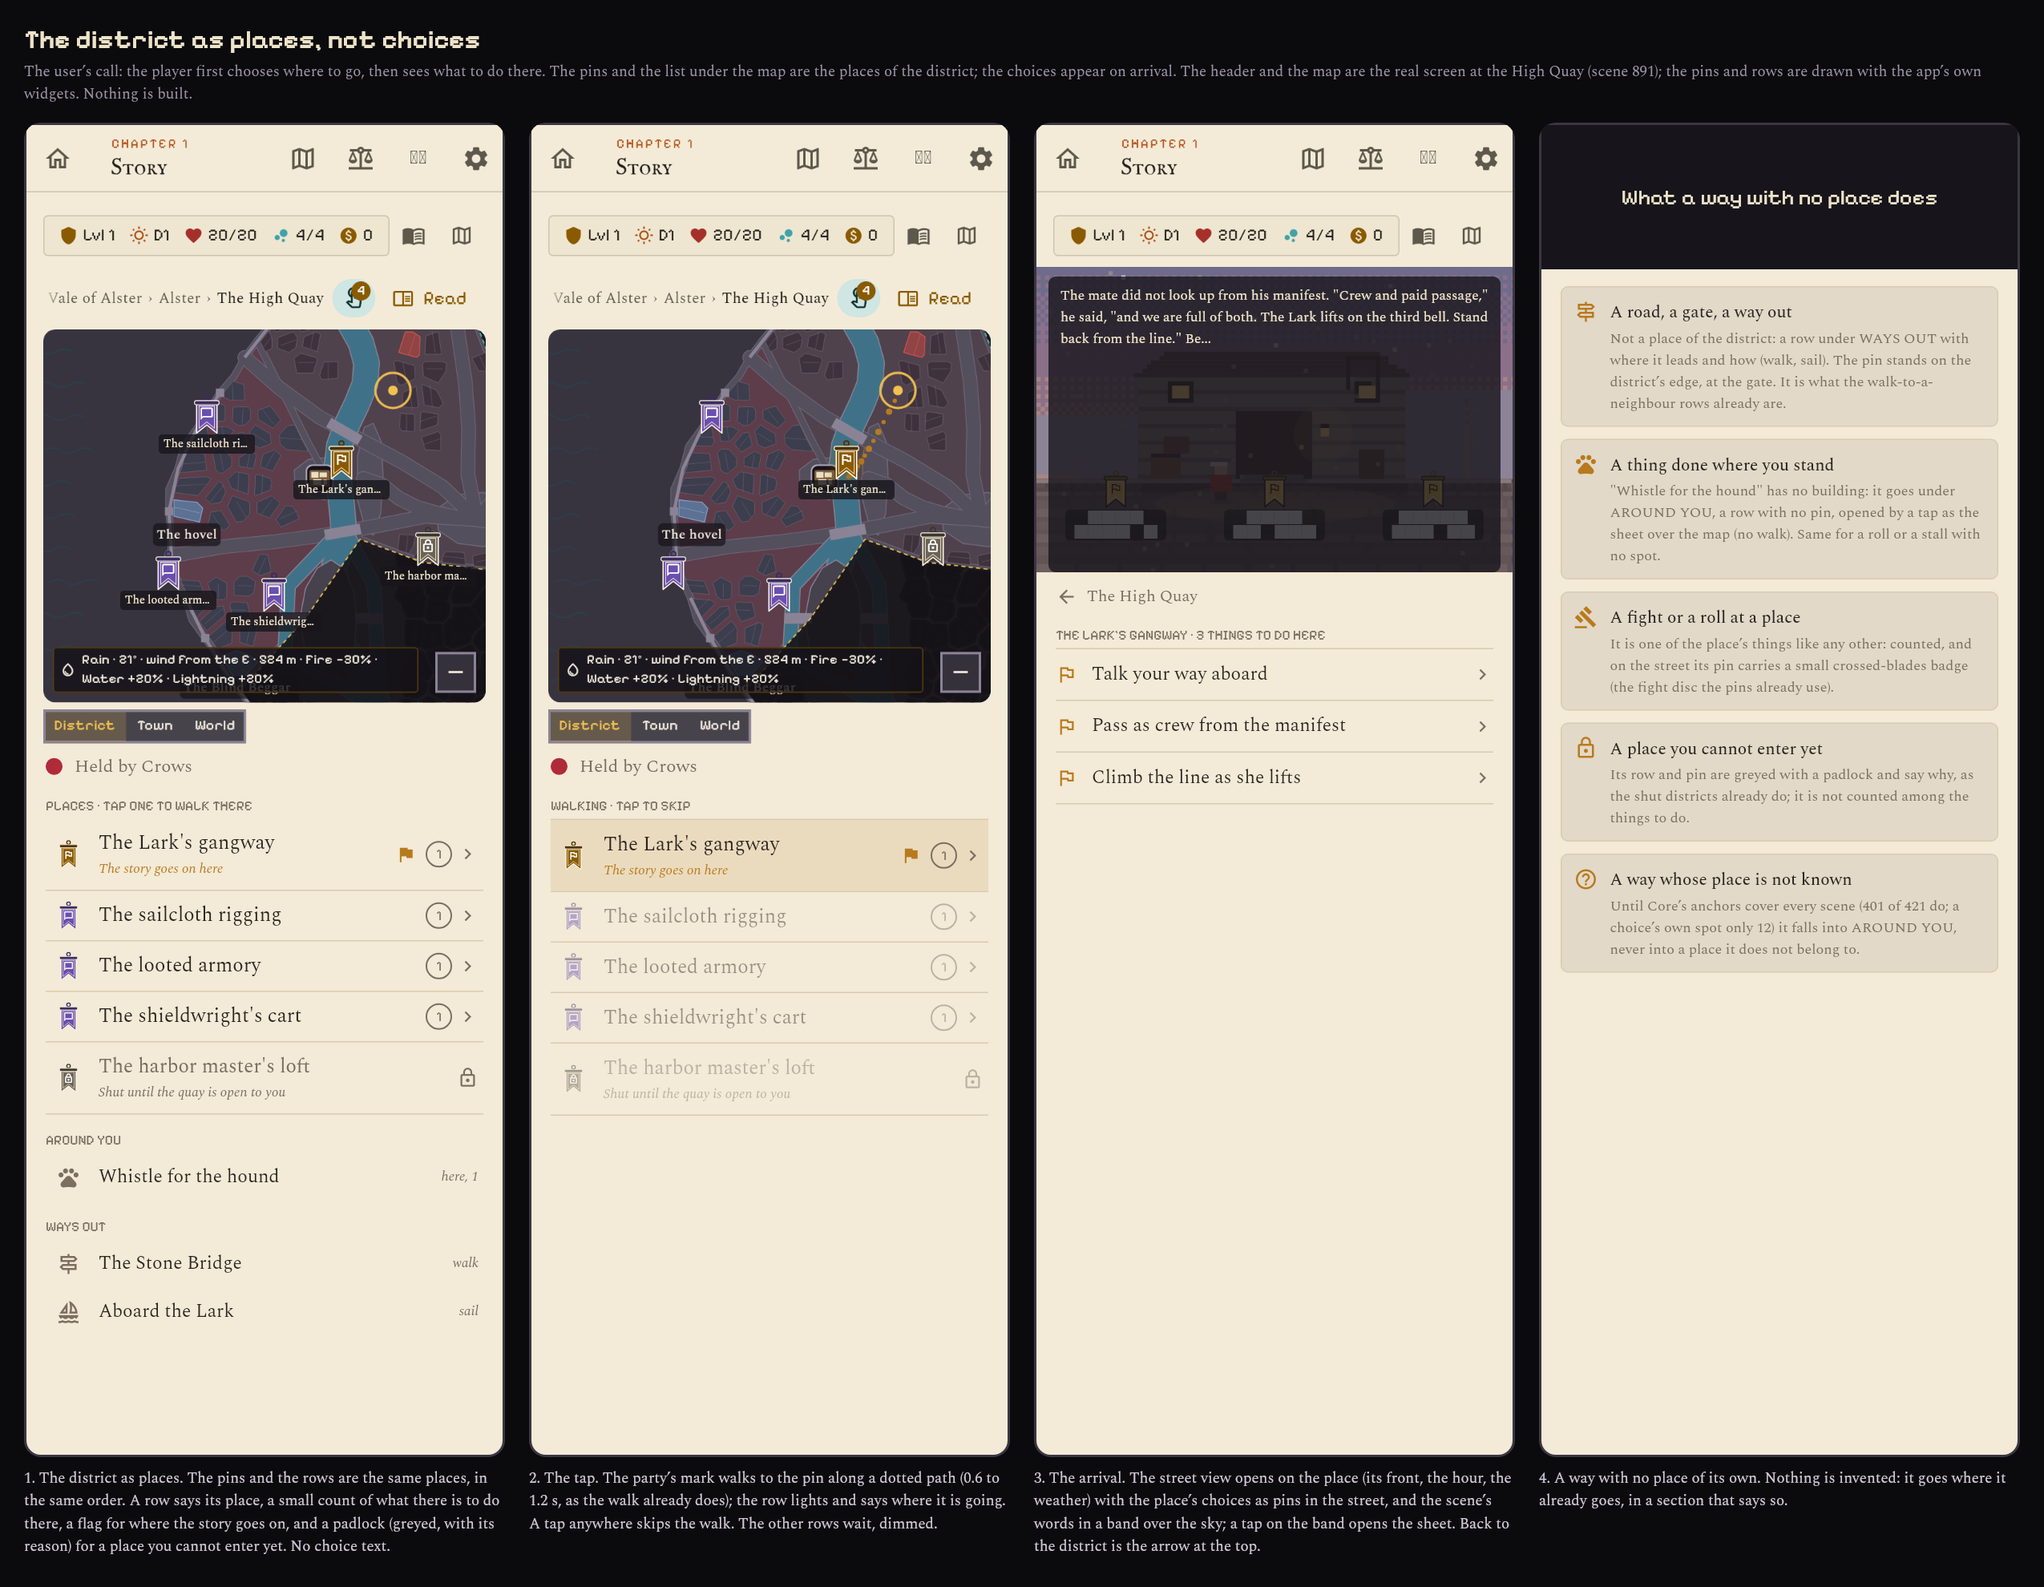
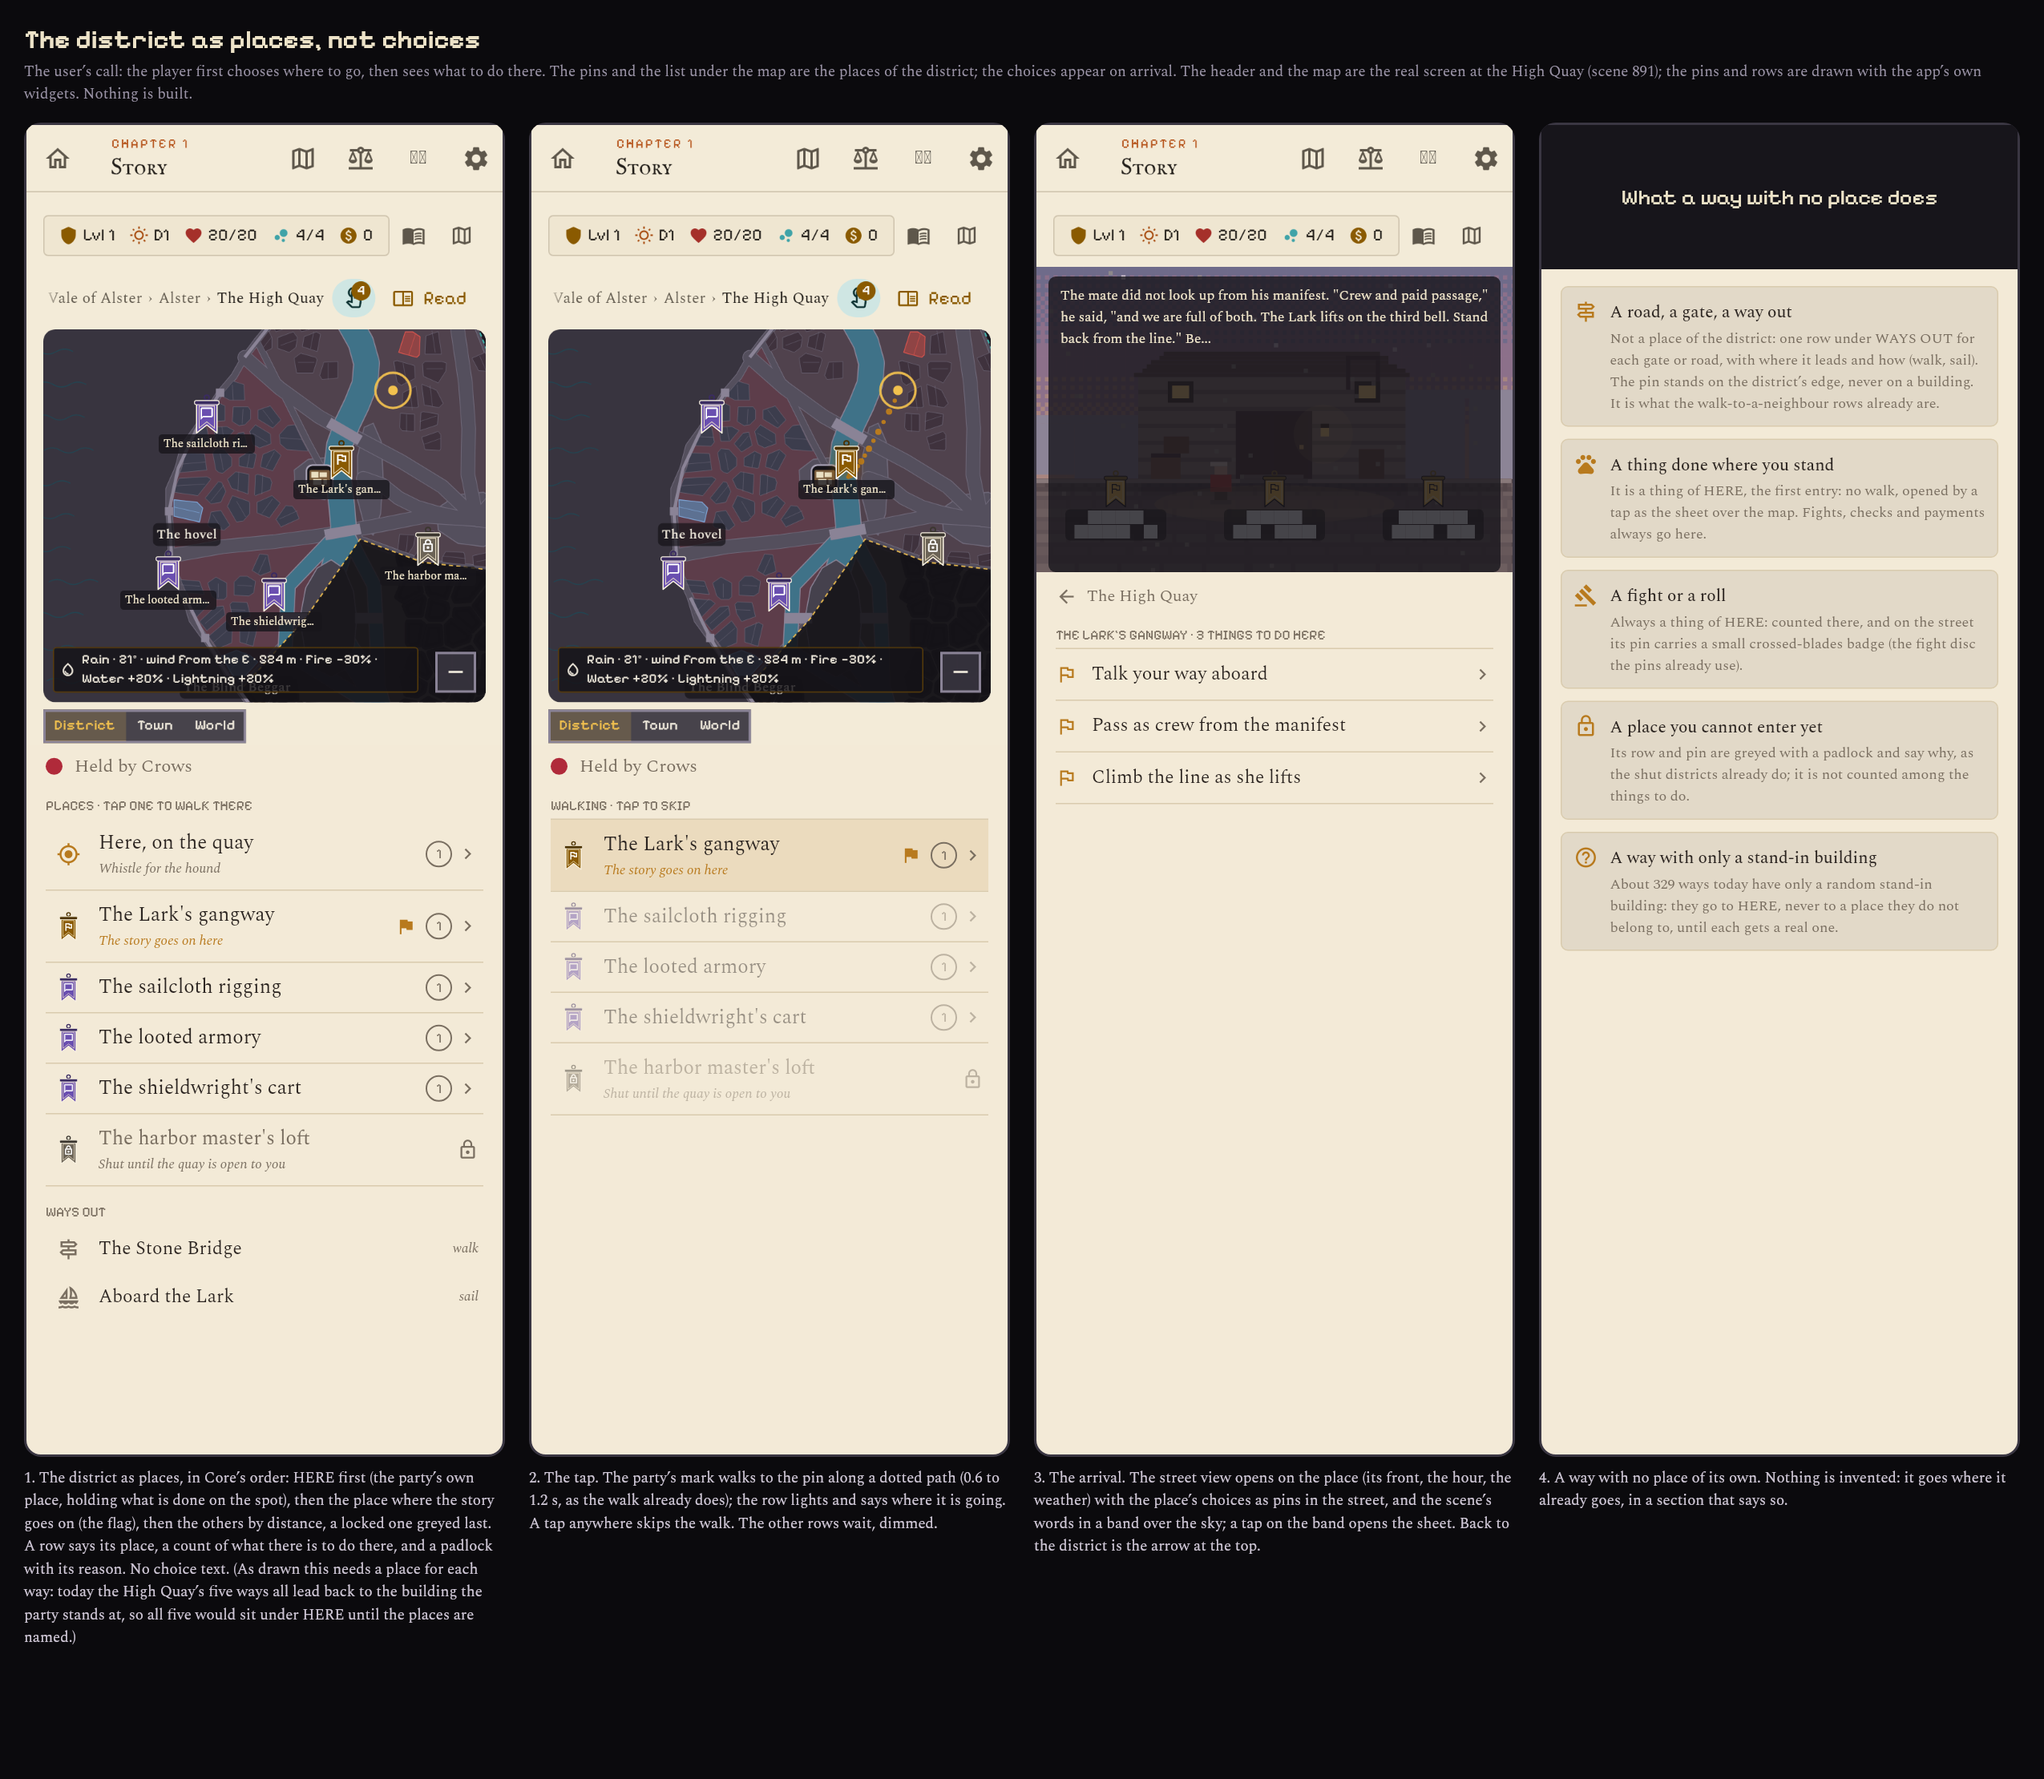
Places mock: Core's rules (HERE first, main marked, hashed ways to HERE)
Claude-Session: https://claude.ai/code/session_01Y8cU3zPWWudNpnZGCrkKEc

Changed region(s): [[0.0, 0.0, 0.9914, 0.7394], [0.0, 0.7702, 0.9914, 0.9859], [0.1859, 0.5237, 0.2169, 0.5854]]

diff --git a/test/ux_places_mock_test.dart b/test/ux_places_mock_test.dart
@@ -218,6 +218,28 @@ Widget _placeRow(_Place p, {bool dim = false, bool hot = false}) {
   );
 }
 
+/// "Here": the party's own place, always the first entry; the on-the-spot
+/// choices (a fight, a check, a payment, a way with no place) are its things.
+Widget _hereRow(int things, String where) => Padding(
+      padding: const EdgeInsets.symmetric(horizontal: 4, vertical: 8),
+      child: Row(children: [
+        const SizedBox(
+            width: 30, child: Icon(Icons.my_location, size: 20, color: _gold)),
+        const SizedBox(width: 10),
+        Expanded(
+          child:
+              Column(crossAxisAlignment: CrossAxisAlignment.start, children: [
+            Text('Here, on $where', style: _serif(16.5)),
+            Text('Whistle for the hound',
+                style: _serif(11.5, color: _inkSoft, style: FontStyle.italic)),
+          ]),
+        ),
+        _count(things),
+        const SizedBox(width: 4),
+        const Icon(Icons.chevron_right, size: 18, color: _inkSoft),
+      ]),
+    );
+
 Widget _section(String s) => Padding(
     padding: const EdgeInsets.only(top: 14, bottom: 4),
     child: Text(s, style: _px(11.5, color: _inkSoft)));
@@ -397,18 +419,18 @@ void main() {
 
     final phone1 = _phone(
       caption:
-          '1. The district as places. The pins and the rows are the same places, in the same order. A row says its place, a small count of what there is to do there, a flag for where the story goes on, and a padlock (greyed, with its reason) for a place you cannot enter yet. No choice text.',
+          '1. The district as places, in Core\u2019s order: HERE first (the party\u2019s own place, holding what is done on the spot), then the place where the story goes on (the flag), then the others by distance, a locked one greyed last. A row says its place, a count of what there is to do there, and a padlock with its reason. No choice text. (As drawn this needs a place for each way: today the High Quay\u2019s five ways all lead back to the building the party stands at, so all five would sit under HERE until the places are named.)',
       top: top(over: [
         for (final w in mapPins) w,
       ]),
       children: [
         ...list.take(3),
+        _hereRow(1, 'the quay'),
+        const Divider(height: 1, color: _line),
         for (final p in _places) ...[
           _placeRow(p),
           const Divider(height: 1, color: _line),
         ],
-        _section('AROUND YOU'),
-        _plainRow(Icons.pets_outlined, 'Whistle for the hound', 'here, 1'),
         _section('WAYS OUT'),
         _plainRow(Icons.signpost_outlined, 'The Stone Bridge', 'walk'),
         _plainRow(Icons.sailing_outlined, 'Aboard the Lark', 'sail'),
@@ -576,21 +598,21 @@ void main() {
       children: [
         const SizedBox(height: 14),
         kindCard(Icons.signpost_outlined, 'A road, a gate, a way out',
-            'Not a place of the district: a row under WAYS OUT with where it leads and how (walk, sail). The pin stands on the district’s edge, at the gate. It is what the walk-to-a-neighbour rows already are.'),
+            'Not a place of the district: one row under WAYS OUT for each gate or road, with where it leads and how (walk, sail). The pin stands on the district’s edge, never on a building. It is what the walk-to-a-neighbour rows already are.'),
         kindCard(Icons.pets_outlined, 'A thing done where you stand',
-            '"Whistle for the hound" has no building: it goes under AROUND YOU, a row with no pin, opened by a tap as the sheet over the map (no walk). Same for a roll or a stall with no spot.'),
-        kindCard(Icons.gavel_outlined, 'A fight or a roll at a place',
-            'It is one of the place’s things like any other: counted, and on the street its pin carries a small crossed-blades badge (the fight disc the pins already use).'),
+            'It is a thing of HERE, the first entry: no walk, opened by a tap as the sheet over the map. Fights, checks and payments always go here.'),
+        kindCard(Icons.gavel_outlined, 'A fight or a roll',
+            'Always a thing of HERE: counted there, and on the street its pin carries a small crossed-blades badge (the fight disc the pins already use).'),
         kindCard(Icons.lock_outline, 'A place you cannot enter yet',
             'Its row and pin are greyed with a padlock and say why, as the shut districts already do; it is not counted among the things to do.'),
-        kindCard(Icons.help_outline, 'A way whose place is not known',
-            'Until Core’s anchors cover every scene (401 of 421 do; a choice’s own spot only 12) it falls into AROUND YOU, never into a place it does not belong to.'),
+        kindCard(Icons.help_outline, 'A way with only a stand-in building',
+            'About 329 ways today have only a random stand-in building: they go to HERE, never to a place they do not belong to, until each gets a real one.'),
       ],
     );
 
     const boardW = 4 * (_phoneW + 20) + 20;
     final key = GlobalKey();
-    tester.view.physicalSize = const Size(boardW, 1320);
+    tester.view.physicalSize = const Size(boardW, 1480);
     tester.view.devicePixelRatio = 1;
     addTearDown(tester.view.resetPhysicalSize);
     addTearDown(tester.view.resetDevicePixelRatio);

diff --git a/docs/proposals/district-places.md b/docs/proposals/district-places.md
@@ -35,10 +35,20 @@ places in the mock are read off the ways' own words; nothing in the data names t
 |---|---|
 | a place (a building, a spot) | a row and a pin, counted with the place's other things |
 | a road, a gate, a way out | a row under WAYS OUT with where it leads and how; the pin on the district's edge (what the walk-to-a-neighbour rows already are) |
-| a thing done where you stand, no building ("Whistle for the hound") | a row under AROUND YOU with no pin, opened as the sheet over the map, no walk |
-| a fight or a roll at a place | one of that place's things, counted; its street pin carries a small crossed-blades badge |
+| a thing done where you stand, no building ("Whistle for the hound") | a thing of HERE, the first entry (the party's own place), opened as the sheet over the map, no walk |
+| a fight, a check or a payment | always a thing of HERE, counted there; its street pin carries a small crossed-blades badge |
 | a place you cannot enter yet | greyed row and pin with a padlock and the reason; not counted |
-| an unknown place (anchors cover 401 of 421 scenes, a choice's own spot 12) | AROUND YOU, never a wrong place |
+| only a stand-in building (about 329 ways today are hashed to a random one) | HERE, never a wrong place, until it gets a real one |
+
+## Core's rules (§6 of `presentation-contract.md`), which the mock follows
+- One entry per place, with its name (the plan's `names`, else the geography building's) and a count.
+- **HERE is one entry, first:** the party's own place, holding the on-the-spot choices.
+- **The main mark** goes to an entry holding a way to a spine beat or a main-story scene; main entries sort first after HERE, the rest by distance; a locked one greyed last.
+- **Leaving the city:** one entry per district gate or road, at the district's edge, never on a building.
+- **The 329 hashed ways go to HERE** until they get a real place.
+- **Flow:** tap an entry, the party walks there (the existing city walk), that place's ways show (street pins or cards), taking one opens the next scene in its own view. On Core's side it is a view state (the place the party stands at), not saved.
+
+Caveat the mock states: at the High Quay all five ways of scene 891 lead back to the building the party stands at (254 ways are "here" choices like this), so with today's data they would all sit under HERE. The places in the picture (the sailcloth rigging, the looted armory, the shieldwright's cart) exist only once Narrative names a place for each choice.
 
 ## What it needs
 - **Core:** a name for each way's place (a place id on the way, or derive it from the anchor
